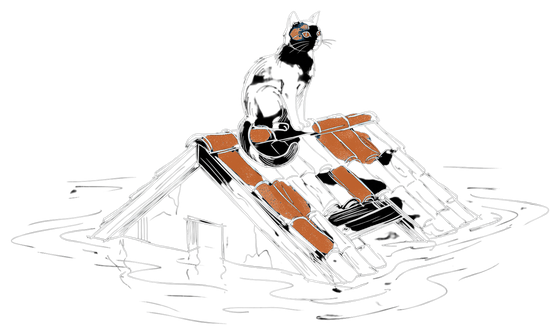
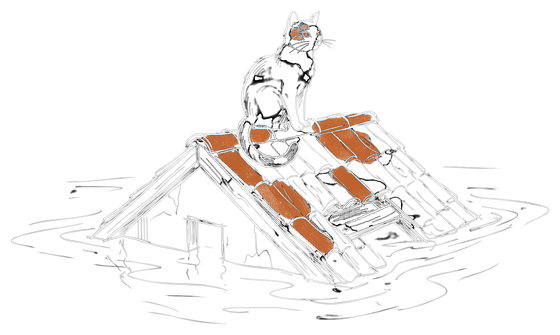
Corrige o recorte do papel em desenho meio recortado
Os quatro gatos novos saíram com o miolo preto chapado no tema escuro. A
causa estava na regra que decidia se havia papel a recortar: ela olhava
se o arquivo tinha alguma transparência e, se tivesse, concluía que o
desenho já viera recortado e pulava o passo inteiro. Os quatro são de um
terceiro tipo que a regra não previa — lado de fora recortado, miolo das
formas preenchido de branco opaco —, então o papel de dentro sobrevivia
e a inversão do tema escuro o pintava de preto.

Agora quem decide é o pixel. Duas ressalvas mantêm o desenho já publicado
intacto: só pixel inteiramente opaco entra na conta, porque alfa parcial é
borda antisserrilhada de traço já recortado; e num original que já veio
recortado a conversão alcança só o que passa de LIMITE_PAPEL, senão o
cinza opaco do traço viraria preto translúcido e a linha clarearia.

Regerei os doze pares para conferir o alcance: os oito antigos saem
idênticos, byte a byte, fora 161 pixels do gato do Space Opera — 0,06% da
imagem, invisíveis. Nos quatro novos o preto chapado cai de 34%, 30%, 19%
e 3% para menos de 5%, e a transparência sobe para a faixa dos antigos.

diff --git a/scripts/gerar-ilustracao.py b/scripts/gerar-ilustracao.py
@@ -21,6 +21,10 @@ from PIL import Image
 
 CAIXA = 560    # o dobro do lado da caixa de exibição no verbete, para tela retina
 MARGEM = 0.02  # folga em volta do desenho, em fração do lado maior
+# A partir de quão claro um pixel opaco conta como papel, num desenho que já
+# chegou com o lado de fora recortado. Alto de propósito: entre papel e traço
+# de lápis fraco, o erro barato é deixar o traço em paz.
+LIMITE_PAPEL = 230
 
 
 def eh_cor_escolhida(r: int, g: int, b: int) -> bool:
@@ -36,13 +40,31 @@ def eh_cor_escolhida(r: int, g: int, b: int) -> bool:
 
 
 def recortar_do_papel(imagem: Image.Image) -> Image.Image:
-    """Troca o fundo branco por transparência, quando o original vem com fundo.
+    """Troca o branco por transparência, onde ele for papel.
 
-    Os primeiros desenhos chegaram já recortados, com o traço sobre nada; os
-    seguintes vieram como o desenho sai do programa da autora, traço escuro
-    sobre papel branco chapado. Se o alfa entrar aqui todo opaco, é o segundo
-    caso — e sem este passo o desenho apareceria dentro de um retângulo branco
-    no tema escuro.
+    Os desenhos chegam de três jeitos. Uns já vêm recortados, com o traço sobre
+    nada. Outros vêm como saem do programa da autora, traço escuro sobre papel
+    branco chapado — e sem este passo apareceriam dentro de um retângulo branco
+    no tema escuro. E outros vêm pela metade: o lado de fora recortado, mas o
+    miolo das formas preenchido de branco opaco.
+
+    O terceiro caso é o que obriga a decidir por pixel. A versão anterior
+    desta função pulava tudo quando o arquivo trazia qualquer transparência,
+    concluindo que já viera recortado; nos híbridos o papel de dentro
+    sobrevivia, e a inversão do tema escuro o transformava em preto chapado
+    dentro do gato. Agora o que manda é o pixel: opaco e claro é papel, venha
+    de onde vier.
+
+    Só pixel **inteiramente opaco** passa por aqui. Pixel que já tem alfa
+    parcial é borda antisserrilhada de um traço já recortado, e mexer nela
+    devolveria opacidade cheia a uma borda que devia ser suave.
+
+    E no híbrido a conversão alcança só o que é claro o bastante para ser
+    papel. Num desenho que chega inteiro opaco não há como distinguir papel de
+    traço pelo alfa, e a conta da distância até o branco resolve os dois de uma
+    vez; num que já vem recortado, o miolo opaco que sobrou é traço, e passá-lo
+    pela mesma conta trocaria cinza opaco por preto translúcido — o que clareia
+    a linha no tema escuro e mexeria em desenho já publicado.
 
     O que vira alfa é a distância até o branco: quanto mais escuro o pixel,
     mais opaco ele fica, e o traço volta a ser preto puro. É a conta inversa da
@@ -51,15 +73,16 @@ def recortar_do_papel(imagem: Image.Image) -> Image.Image:
     inclusive. Cor escolhida não passa por isso: ela fica opaca e com o
     pigmento intacto, senão o laranja clarearia junto com o papel.
     """
-    if imagem.getchannel('A').getextrema()[0] < 255:
-        return imagem
+    inteira_opaca = imagem.getchannel('A').getextrema()[0] == 255
 
     saida = imagem.copy()
     px = saida.load()
     for y in range(saida.height):
         for x in range(saida.width):
-            r, g, b, _ = px[x, y]
-            if eh_cor_escolhida(r, g, b):
+            r, g, b, a = px[x, y]
+            if a != 255 or eh_cor_escolhida(r, g, b):
+                continue
+            if not inteira_opaca and max(r, g, b) < LIMITE_PAPEL:
                 continue
             px[x, y] = (0, 0, 0, 255 - max(r, g, b))
     return saida

diff --git a/CLAUDE.md b/CLAUDE.md
@@ -227,16 +227,28 @@ páginas de catálogo. É o único arquivo de `src/lib/` sem teste ao lado, e de
 propósito: `import.meta.glob` é do Vite e só existe dentro do build.
 
 O par de arquivos sai de [scripts/gerar-ilustracao.py](scripts/gerar-ilustracao.py),
-que recorta o papel branco quando o original vem com fundo (os primeiros
-chegaram já recortados, os gatos dos outros cinco subgêneros não — sem esse passo o
-desenho apareceria dentro de um retângulo branco no tema escuro), corta o
-original na caixa do desenho, encaixa numa **caixa** de 560px de
-lado e inverte o traço para a versão do tema escuro — preservando o que é
+que troca o branco por transparência onde ele for papel, corta o original na
+caixa do desenho, encaixa numa **caixa** de 560px de lado e inverte o traço
+para a versão do tema escuro — preservando o que é
 colorido, que é pigmento escolhido e não traço. Caixa e não largura fixa porque
 os desenhos têm formatos muito diferentes: igualados pela largura, o trono da
 Sucessão dinástica contestada ficaria com quase o dobro da altura do gato e
 abriria um vão enorme ao lado de um verbete de duas linhas. O Cartão lê a largura do
 próprio arquivo e mostra na metade — a caixa de 280px na tela.
+
+**O papel se decide por pixel, e isso custou uma correção.** Os originais
+chegam de três jeitos: já recortados, com o traço sobre nada; inteiros opacos,
+como o desenho sai do programa da autora, traço escuro sobre papel branco
+chapado; e híbridos, com o lado de fora recortado mas o miolo das formas
+preenchido de branco opaco. O script decidia pelo alfa do arquivo — "tem
+transparência, então já veio recortado, pule o passo" —, e os quatro gatos dos
+subgêneros novos, que são do terceiro tipo, saíram com o miolo preto chapado no
+tema escuro: o papel de dentro sobrevivia ao passo pulado e a inversão o pintava
+de preto. Hoje quem manda é o pixel, com duas ressalvas que existem para não
+mexer em desenho já publicado: só pixel inteiramente opaco entra na conta (alfa
+parcial é borda antisserrilhada), e num original que já veio recortado a
+conversão alcança só o que passa de `LIMITE_PAPEL`, senão o cinza opaco do traço
+viraria preto translúcido e a linha clarearia no tema escuro.
 
 Os originais em tamanho cheio ficam em `src/assets/ilustracoes/original/`,
 versionados, porque sem eles não há como refazer nada. É script de uso ocasional
